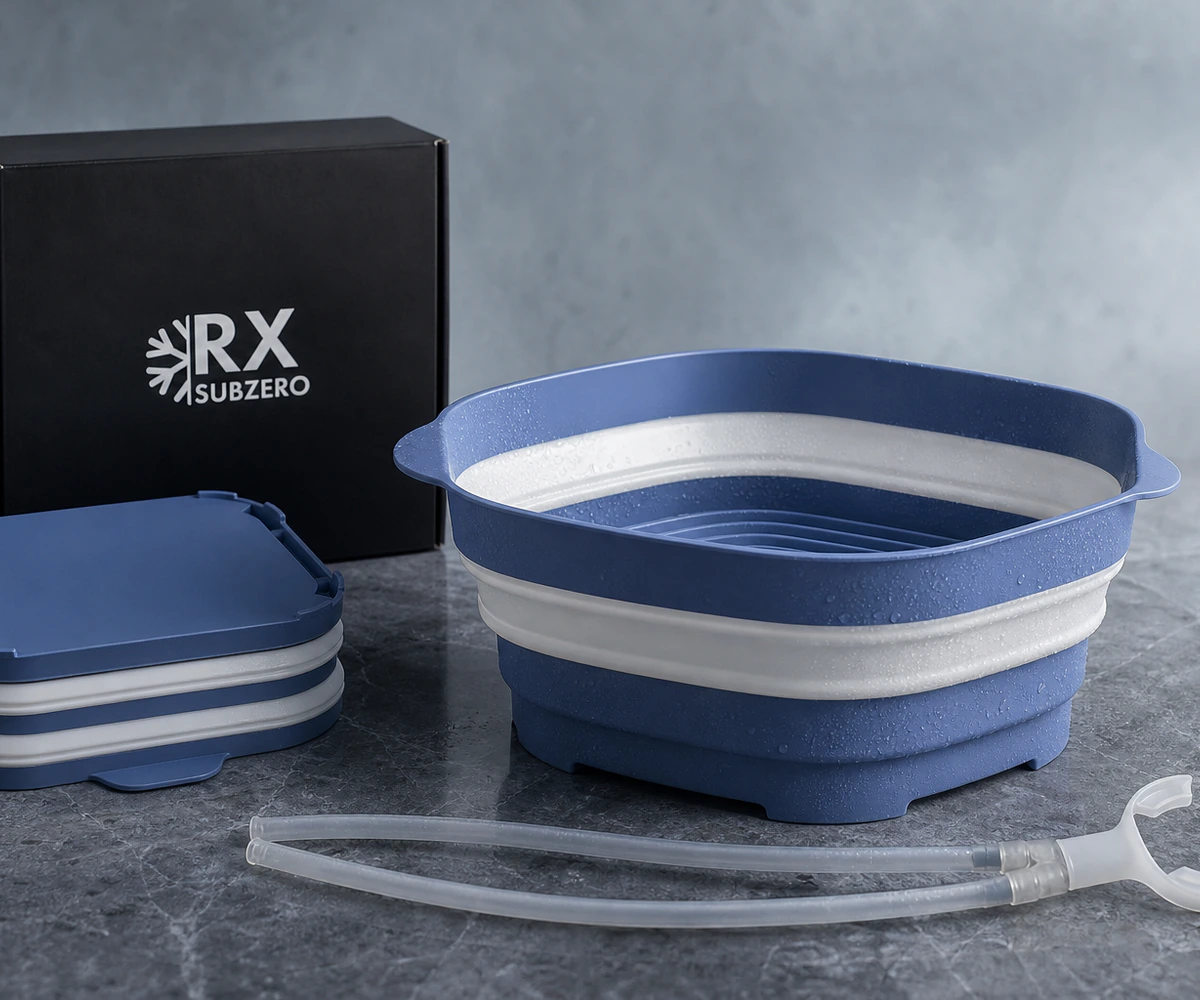
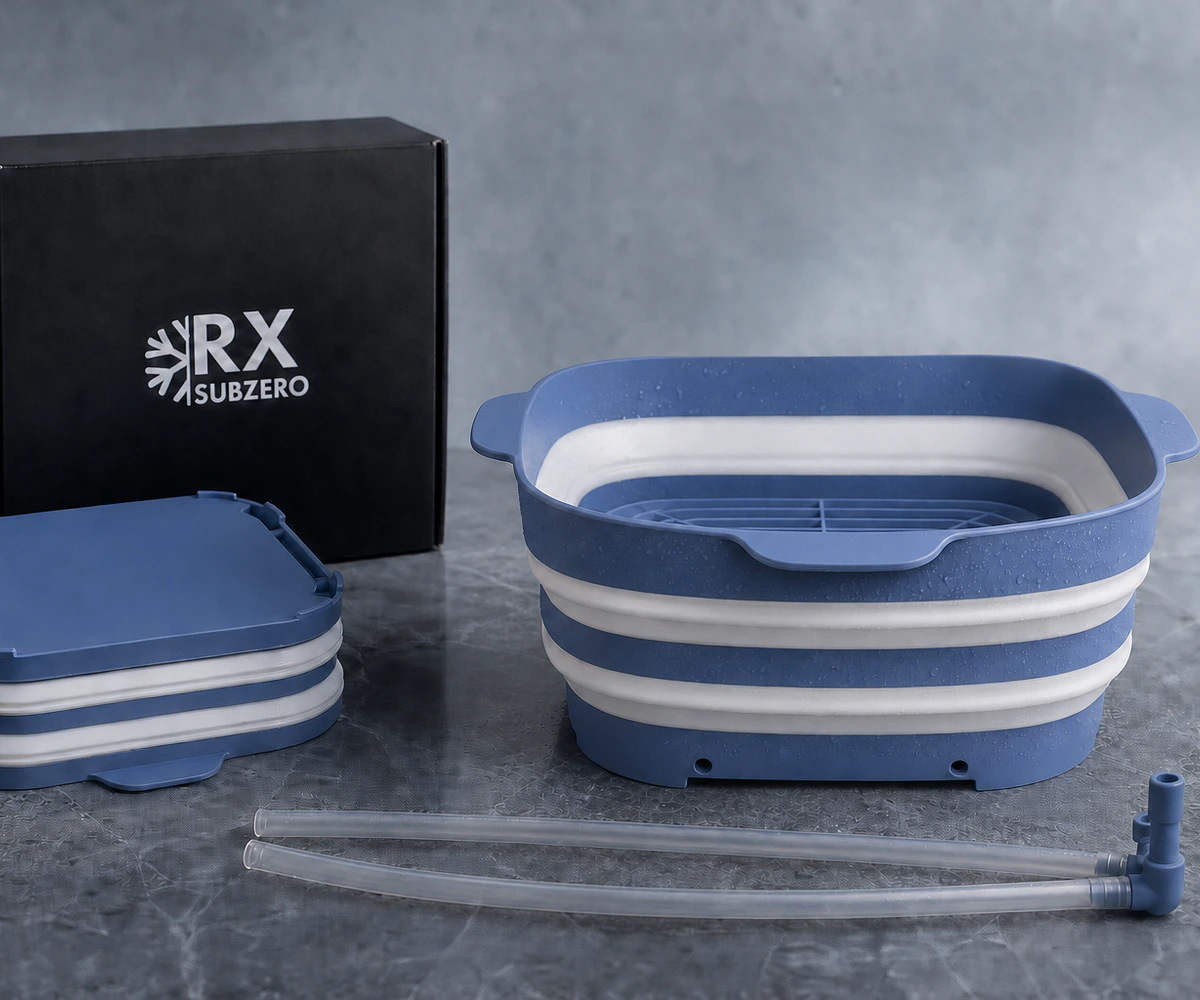
Correct Health product and breathing tube scenes

diff --git a/beauty.html b/beauty.html
@@ -226,7 +226,7 @@
               </button>
             </h3>
             <div class="rxsz-faq__panel" id="beauty-faq-1" aria-labelledby="beauty-faq-q1">
-              <div class="rxsz-faq__a"><p data-i18n="faq.items.0.a">The product format shown includes the collapsible basin and its clear dual breathing tube with white mouthpiece.</p></div>
+              <div class="rxsz-faq__a"><p data-i18n="faq.items.0.a">The product format shown includes the collapsible basin and its clear dual breathing tube.</p></div>
             </div>
           </article>
           <article class="rxsz-faq__item">
@@ -297,7 +297,7 @@
           </p>
           <ul class="rxsz-auth-features">
             <li data-i18n="product.features.0">Collapsible blue-and-white basin</li>
-            <li data-i18n="product.features.1">Clear dual breathing tube with white mouthpiece</li>
+            <li data-i18n="product.features.1">Clear dual breathing tube</li>
             <li data-i18n="product.features.2">Integrated blue inner base</li>
             <li data-i18n="product.features.3">Side handles and compact storage</li>
           </ul>

diff --git a/health.html b/health.html
@@ -226,7 +226,7 @@
               </button>
             </h3>
             <div class="rxsz-faq__panel" id="health-faq-1" aria-labelledby="health-faq-q1">
-              <div class="rxsz-faq__a"><p data-i18n="faq.items.0.a">The product format shown includes the collapsible basin and its clear dual breathing tube with white mouthpiece.</p></div>
+              <div class="rxsz-faq__a"><p data-i18n="faq.items.0.a">The product format shown includes the collapsible basin and its clear dual breathing tube.</p></div>
             </div>
           </article>
           <article class="rxsz-faq__item">
@@ -297,7 +297,7 @@
           </p>
           <ul class="rxsz-auth-features">
             <li data-i18n="product.features.0">Collapsible blue-and-white basin</li>
-            <li data-i18n="product.features.1">Clear dual breathing tube with white mouthpiece</li>
+            <li data-i18n="product.features.1">Clear dual breathing tube</li>
             <li data-i18n="product.features.2">Integrated blue inner base</li>
             <li data-i18n="product.features.3">Side handles and compact storage</li>
           </ul>
